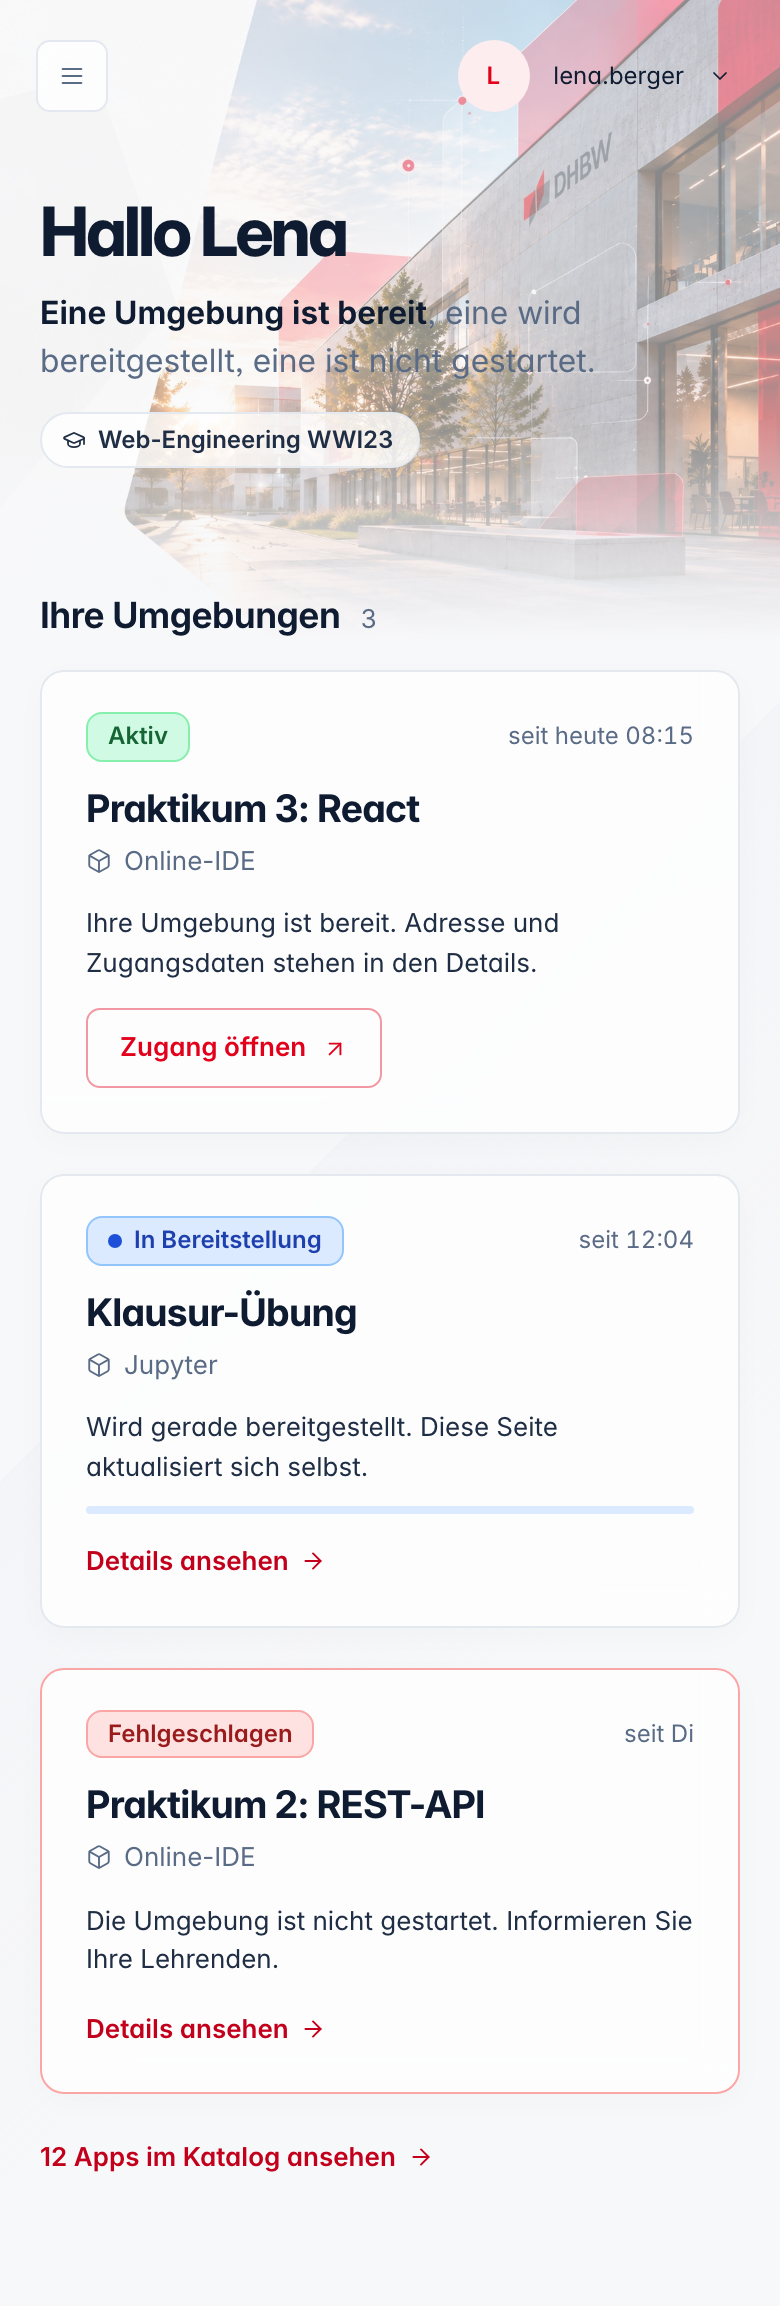
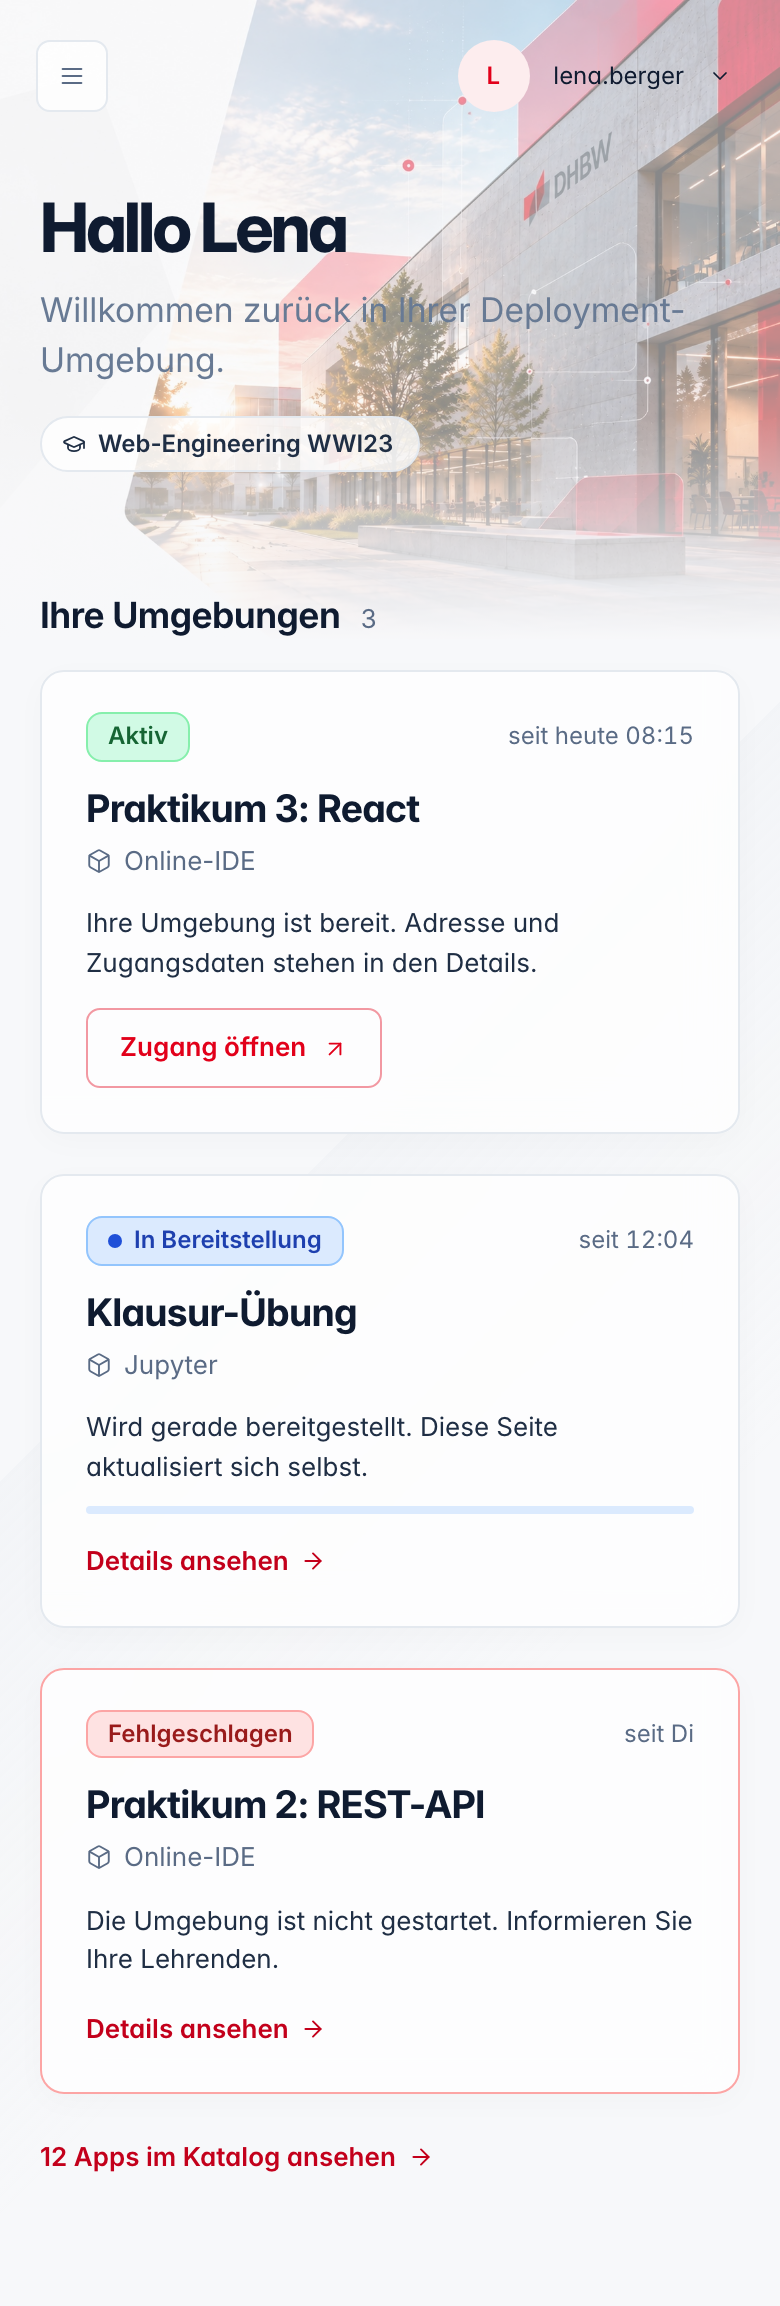
docs(design): Startseite behält den Hero-Text, Zusammenfassung wandert in die Karte

Changed region(s): [[0.0308, 0.0937, 0.7692, 0.2186], [0.8, 0.1249, 0.8615, 0.1561]]

diff --git a/docs/design/dashboard-startseite/mockup/index.html b/docs/design/dashboard-startseite/mockup/index.html
@@ -124,11 +124,9 @@
 
   /* ───────── Hero ───────── */
   .hero { min-height: 230px; display: flex; align-items: center; padding-bottom: 12px; }
-  .hero__body { max-width: 520px; }
+  .hero__body { max-width: 440px; }
   .hero__name { font-size: clamp(34px, 3vw, 50px); font-weight: 750; letter-spacing: -.045em; line-height: 1.2; color: var(--ink); margin-bottom: 8px; overflow-wrap: anywhere; }
-  .hero__sub { color: var(--meta); font-size: 18px; line-height: 1.5; max-width: 520px; text-wrap: balance; }
-  .hero__sub b { color: var(--ink); }
-  .hero__sub .is-bad { color: var(--bad); white-space: nowrap; }
+  .hero__sub { color: #687A94; font-size: 19px; line-height: 1.5; max-width: 380px; }
   .hero__chip { display: inline-flex; align-items: center; gap: 6px; margin-top: 14px; padding: 4px 12px 4px 10px; border: 1px solid var(--line); border-radius: 999px; background: var(--glass); color: var(--strong); font-size: 12px; font-weight: 600; }
 
   /* ───────── Kacheln (wie heute: .kpi-item) ───────── */
@@ -151,6 +149,8 @@
   .card__head { display: flex; align-items: baseline; justify-content: space-between; gap: 16px; padding: 20px 24px 14px; }
   .card__title { font-size: 16px; font-weight: 650; letter-spacing: -.01em; color: var(--ink); }
   .card__sub { margin-top: 2px; font-size: 12px; color: var(--meta); }
+  .card__sub b { color: var(--ink); }
+  .card__sub .is-bad { color: var(--bad); font-weight: 650; }
   .link { display: inline-flex; align-items: center; gap: 6px; font-size: 13px; font-weight: 600; color: var(--primary-dark); white-space: nowrap; }
   .link .i { transition: transform .15s; }
   .link:hover .i { transform: translateX(2px); }
@@ -272,6 +272,8 @@
     .sidebar { flex-basis: 176px; width: 176px; }
     .layout { grid-template-columns: minmax(0, 1fr); }
     .kpi { padding: 20px; gap: 14px; }
+    .hero__body { max-width: 340px; }
+    .hero__sub { font-size: 17px; }
   }
   @media (max-width: 767px) {
     :root { --gutter: 20px; }
@@ -284,7 +286,6 @@
     .user__name { max-width: 110px; overflow: hidden; text-overflow: ellipsis; }
     .workspace::before { height: 320px; background-position: 65% center; opacity: .45; }
     .hero { min-height: 190px; }
-    .hero__sub { font-size: 16px; }
     .kpis { grid-template-columns: minmax(0, 1fr); gap: 12px; }
     .kpi { padding: 16px 20px; }
     .card__head, .course, .card--pad { padding-inline: 18px; }
@@ -390,12 +391,7 @@
               <span data-role-only="admin">Hallo Admin</span>
               <span data-role-only="student">Hallo Lena</span>
             </h1>
-            <p class="hero__sub" data-role-only="dozent" data-state-only="normal"><b class="num">6 Deployments</b> laufen, 1 wird bereitgestellt, <b class="is-bad num">2 sind fehlgeschlagen</b>.</p>
-            <p class="hero__sub" data-role-only="dozent" data-state-only="leer">Sie haben noch kein Deployment. Wählen Sie eine App, um zu starten.</p>
-            <p class="hero__sub" data-role-only="admin" data-state-only="normal"><b class="num">3 Versionen</b> warten auf Ihre Freigabe. Plattformweit sind <b class="is-bad num">4 Deployments fehlgeschlagen</b>.</p>
-            <p class="hero__sub" data-role-only="admin" data-state-only="leer">Keine Version wartet auf Freigabe. Plattformweit sind <b class="is-bad num">4 Deployments fehlgeschlagen</b>.</p>
-            <p class="hero__sub" data-role-only="student" data-state-only="normal"><b>Eine Umgebung ist bereit</b>, eine wird bereitgestellt, eine ist nicht gestartet.</p>
-            <p class="hero__sub" data-role-only="student" data-state-only="leer">Hier erscheinen Ihre Umgebungen für den Kurs.</p>
+            <p class="hero__sub">Willkommen zurück in Ihrer Deployment-Umgebung.</p>
             <span class="hero__chip" data-role-only="student"><svg class="i"><use href="#i-cap"/></svg>Web-Engineering WWI23</span>
           </div>
         </section>
@@ -440,7 +436,7 @@
         <div class="layout" data-role-only="dozent">
           <section class="card" aria-labelledby="h-courses">
             <div class="card__head">
-              <div><h2 class="card__title" id="h-courses">Deployments nach Kurs</h2><p class="card__sub" data-state-only="normal">Kurse mit Problemen stehen oben.</p></div>
+              <div><h2 class="card__title" id="h-courses">Deployments nach Kurs</h2><p class="card__sub" data-state-only="normal"><b class="num">6</b> laufen, 1 wird bereitgestellt, <span class="is-bad num">2 sind fehlgeschlagen</span>.</p></div>
               <a class="link" href="#" data-state-only="normal">Alle Deployments<svg class="i"><use href="#i-arrow"/></svg></a>
             </div>
 

diff --git a/docs/design/dashboard-startseite/design-plan.md b/docs/design/dashboard-startseite/design-plan.md
@@ -28,7 +28,8 @@ Der erste Gedanke: ein roter Banner „2 Deployments sind fehlgeschlagen“ übe
 
 | Verworfen | Warum | Stattdessen |
 |---|---|---|
-| Roter Alarm-Banner | Doppelt zu Hero-Satz und Zeilen; Marken-Rot (`primary`) und Fehler-Rot (`danger`) verschwimmen | **Hero-Satz** nennt die Zahl; die betroffene Zeile ist getönt |
+| Roter Alarm-Banner | Doppelt zu Zeilen und Band; Marken-Rot (`primary`) und Fehler-Rot (`danger`) verschwimmen | **Eine Zeile** unter dem Kartentitel nennt die Zahlen; die betroffene Zeile ist getönt |
+| Hero-Satz mit Zahlen („6 Deployments laufen …“) anstelle des Standardtexts | Vorgabe: Unter der Begrüßung bleibt „Willkommen zurück in Ihrer Deployment-Umgebung.“ | Der Hero bleibt wie heute; die Zusammenfassung wandert in die Karte |
 | Zwei Listen „Aktuell“ und „Zuletzt“ je Kurs | Doppelte Länge, Deployments springen zwischen den Listen | **Eine Liste je Kurs**: aktive zuerst, gestoppte eingeklappt |
 | Aktivitätsfeed („Letzte Aktivitäten“) | Das Backend hat kein Ereignisprotokoll; Status und Datum sagen dasselbe | Status-Pille und Datum je Zeile |
 | Donut oder Kreisdiagramm je Kurs | Braucht Legende, ist bei 1–5 Deployments leer | **Kurs-Band**: eine Leiste, ein Segment je Deployment-Zustand |
@@ -56,7 +57,7 @@ Dieselben Tokens wie in den anderen Mockups (`src/theme/themes/t3.ts`), nichts N
 Die Pillen-Farben sind die aus `deployments-list/helpers.ts` (`statusPillClass`); das Dashboard erfindet keine neuen.
 
 **Kontrast:** `textMuted` hat 4,37:1 und taugt nur für große Schrift. Für Meta-Texte mit 12 px nimmt das Mockup einen dunkleren Schiefer (`#5A6B85`, 5,4:1). Im Code: `text-textStrong/75` (ergibt ca. 6,2:1 auf Weiß), kein neues Token.
-**Typografie:** Inter, `tabular-nums` für Zahlen. Hero-Name wie heute (`clamp(34px, 3vw, 50px)`, 750, −.045em); der Satz darunter 18 px mit fetten Zahlen. Kartentitel 16 px/650, Kurs-Name 15 px/650, Zeilenname 14 px/600, Meta 12 px.
+**Typografie:** Inter, `tabular-nums` für Zahlen. Hero-Name wie heute (`clamp(34px, 3vw, 50px)`, 750, −.045em); der Text darunter wie heute (19 px, `textMuted`). Kartentitel 16 px/650, Kurs-Name 15 px/650, Zeilenname 14 px/600, Meta 12 px.
 **Form:** Karten 12 px (`--workspace-card-radius`, wie `.kpi-item` und `.ui-card`), Pillen `rounded-md` (8 px, wie heute), Band 8 px hoch mit 4 px Rundung an den Enden, 2 px Abstand zwischen den Segmenten.
 
 ## 5. Layout und Regeln
@@ -65,16 +66,18 @@ Die Pillen-Farben sind die aus `deployments-list/helpers.ts` (`statusPillClass`)
 Lehrende / Admin (Desktop, 1440 px)                          Studierende
 ┌─────────────────────────────────────────────┐              ┌────────────────────────────────────┐
 │ Hallo Dozentin                              │  Hero-Foto   │ Hallo Lena                         │
-│ 6 Deployments laufen, 1 wird bereitgestellt,│              │ Eine Umgebung ist bereit, …        │
-│ 2 sind fehlgeschlagen.                      │              │ [🎓 Web-Engineering WWI23]          │
+│ Willkommen zurück in Ihrer Deployment-Umge- │              │ Willkommen zurück in Ihrer …       │
+│ bung.                                       │              │ [🎓 Web-Engineering WWI23]          │
 ├──────────────┬──────────────┬───────────────┤              │ Ihre Umgebungen  3                 │
 │ 6 von 11     │ 8            │ 3             │  Kacheln     │ ┌────────┐ ┌────────┐ ┌────────┐   │
 │ Aktive Depl. │ Apps         │ Meine Kurse   │              │ │ Aktiv  │ │ In Ber.│ │ Fehlg. │   │
 ├──────────────┴──────────────┴─┬─────────────┤              │ │ Name   │ │ Name   │ │ Name   │   │
 │ Deployments nach Kurs         │ Neues Depl. │              │ │ [Zugang│ │ Details│ │ Details│   │
-│ Datenbanken WI24 ──────────── │ [+ Neues…]  │              │ └────────┘ └────────┘ └────────┘   │
-│ ▇▇▇▇▇▇▇▇▇▇▇▇▇▇▇▇▇▇▇▇▇▇▇▇▇▇▇▇▇▇ │ Ihre Apps   │              │ 12 Apps im Katalog ansehen →      │
-│  ▌ SQL-Labor A–D [Fehlgeschl.]│ Kontingent  │              └────────────────────────────────────┘
+│ 6 laufen, 1 wird bereitgest…, │ [+ Neues…]  │              │ └────────┘ └────────┘ └────────┘   │
+│ 2 sind fehlgeschlagen.        │ Ihre Apps   │              │ 12 Apps im Katalog ansehen →      │
+│ Datenbanken WI24 ──────────── │ Kontingent  │              └────────────────────────────────────┘
+│ ▇▇▇▇▇▇▇▇▇▇▇▇▇▇▇▇▇▇▇▇▇▇▇▇▇▇▇▇▇▇ │             │
+│  ▌ SQL-Labor A–D [Fehlgeschl.]│             │
 │    SQL-Labor Demo [Aktiv]     │             │
 │ Web-Engineering WWI23 ─────── │             │
 │ …                             │             │
@@ -87,7 +90,7 @@ Lehrende / Admin (Desktop, 1440 px)                          Studierende
 | Reihenfolge in einem Kurs | Fehlgeschlagen, In Bereitstellung, Aktiv; jeweils neueste zuerst. Gestoppte sind eingeklappt („1 gestopptes Deployment anzeigen“) |
 | Länge | höchstens 5 sichtbare Zeilen je Kurs, der Rest hinter „n weitere anzeigen“ |
 | Band | Segmente in der Reihenfolge Fehlgeschlagen, Aktiv, In Bereitstellung, Gestoppt; Breite proportional, mindestens 8 px |
-| Mehrere Kurse | Ein Deployment mit Studierenden aus zwei Kursen steht unter beiden; Hero-Satz und Kacheln zählen es einmal |
+| Mehrere Kurse | Ein Deployment mit Studierenden aus zwei Kursen steht unter beiden; die Zusammenfassungszeile und die Kacheln zählen es einmal |
 | Ohne Kurs | Deployments, deren Mitglieder keinem Kurs angehören (und alle, solange das Backend `courses` nicht liefert: dann eine Gruppe ohne Kopf) |
 | Problemzeile | Hintergrund `dangerTint` (50 %), 3 px Rand links in `danger`, Pille „Fehlgeschlagen“ |
 | Admin | Queue links (älteste Einreichung zuerst, ab 2 Tagen amber), Karte „Plattform“ rechts, „Ihre Deployments“ eingeklappt darunter |
@@ -98,9 +101,8 @@ Gefüllt, leer (je Rolle), Laden (wie die Deployments-Liste), Fehler beim Laden 
 Mockup-Deep-Links (Anker mit `-` verbinden): `#clean` blendet die Mockup-Leiste aus; `#admin`, `#student` wechseln die Rolle; `#leer` zeigt den Leerzustand. Beispiel: `mockup/index.html#clean-student-leer`.
 
 ## 7. Texte (Sie-Form, sachlich, kein Ausrufezeichen)
-- Hero Lehrende: „**6 Deployments** laufen, 1 wird bereitgestellt, **2 sind fehlgeschlagen**.“ Teile mit 0 entfallen. Ohne Deployments: „Sie haben noch kein Deployment. Wählen Sie eine App, um zu starten.“
-- Hero Admin: „**3 Versionen** warten auf Ihre Freigabe. Plattformweit sind **4 Deployments fehlgeschlagen**.“
-- Hero Studierende: „**Eine Umgebung ist bereit**, eine wird bereitgestellt, eine ist nicht gestartet.“
+- Hero (alle Rollen und Zustände): Begrüßung und „Willkommen zurück in Ihrer Deployment-Umgebung.“ wie heute.
+- Zusammenfassungszeile der Karte „Deployments nach Kurs“ (nur Lehrende): „**6** laufen, 1 wird bereitgestellt, **2 sind fehlgeschlagen**.“ Teile mit 0 entfallen; ohne Deployments entfällt die Zeile. Admin und Studierende haben keine solche Zeile: Kacheln und Karten sagen es schon.
 - Leerzustände nennen den Raum und was dort entsteht: „Noch kein Deployment“, „Keine Versionen zur Prüfung“, „Noch keine Umgebung“. Dazu eine Zeile, die sagt, was als Nächstes passiert, und eine Schaltfläche mit Verb.
 - Bei Fehlern sagt die Karte, was zu tun ist: „Die Umgebung ist nicht gestartet. Informieren Sie Ihre Lehrenden.“
 
@@ -110,7 +112,7 @@ Mockup-Deep-Links (Anker mit `-` verbinden): `#clean` blendet die Mockup-Leiste 
 - Die Pulspunkte und die laufende Leiste stehen still bei `prefers-reduced-motion`.
 - Die Karten der Studierenden liegen in einer Region mit `aria-live="polite"`, damit ein Wechsel auf „Aktiv“ angesagt wird.
 - Mobil (390 px) gibt es kein horizontales Scrollen; die Datumsspalte rutscht in die Meta-Zeile.
-- Der Hero-Satz liegt mobil über dem Foto (Deckkraft 45 % wie heute); der Kontrast dort ist beim Umsetzen mit dem Browser zu prüfen.
+- Begrüßung und Text liegen mobil über dem Foto wie heute (Deckkraft 45 %); der Kontrast dort ist beim Umsetzen mit dem Browser zu prüfen.
 
 ## 9. Umsetzung
 Siehe das Issue (Komponenten, Datenquellen, Stufen, Tests). Das Mockup ist ein Entwurf und wird nicht gebaut oder ausgeliefert.
